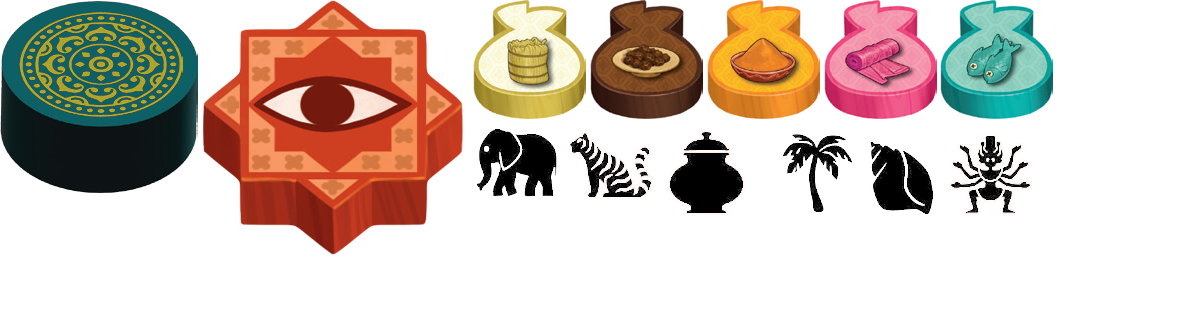
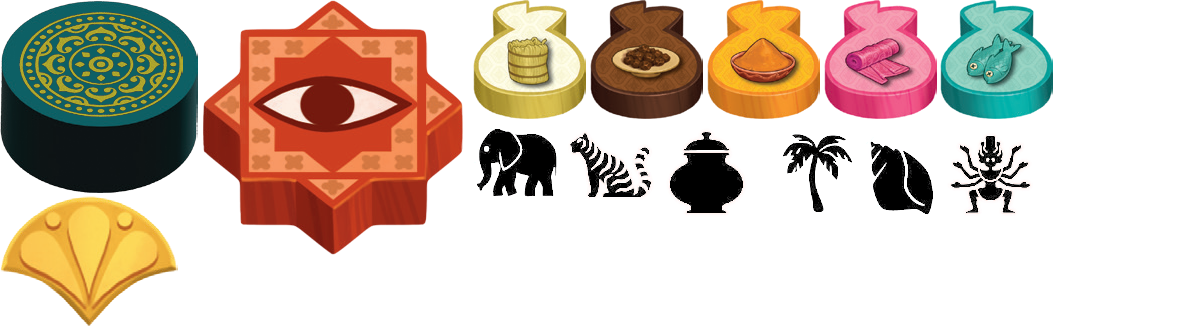
[UI] Side panel : nb actions done

Changed region(s): [[0.0, 0.5758, 0.1542, 1.0]]

diff --git a/modules/js/Game.js b/modules/js/Game.js
@@ -227,6 +227,7 @@ export class Game {
                         ${this.tplResourceCounter(player,'explo_symbol_tiny_6',this.getCardSymbolName(6))}
                     </div>
                     <div class='goa_player_counters_line goa_player_counters_lastline'>
+                        ${this.tplResourceCounter(player,'nbActions',_('Round Actions'))}
                         <div id="goa_first_player_container_${player.id}" class="goa_first_player_container" alt="${_('Nazar Stone (Starting player)')}" title="${_('Nazar Stone (Starting player)')}"></div>
                     </div>
                 </div>
@@ -238,6 +239,7 @@ export class Game {
             this.createCounter(player.id,'ships',player.ships);
             this.createCounter(player.id,'contracts',player.contracts);
             this.createCounter(player.id,'compasses',player.compasses);
+            this.createCounter(player.id,'nbActions',player.nbActions);
             if (currentPlayer && player.id == currentPlayer.id){
                 this.createCounter(player.id,'money',player.money);
                 //counters on hand symbols :
@@ -268,6 +270,7 @@ export class Game {
             this.bga.gameui.addTooltipHtml(`goa_reserve_${player.id}_ships`, _('Number of Ships on ship cards'));
             this.bga.gameui.addTooltipHtml(`goa_reserve_${player.id}_contracts`, _('Number of Contracts on contract cards'));
             this.bga.gameui.addTooltipHtml(`goa_reserve_${player.id}_compasses`, _('Compass cards'));
+            this.bga.gameui.addTooltipHtml(`goa_reserve_${player.id}_nbActions`, _('Round Actions'));
 
             
             this.const.SPICES_ALL.forEach((spice) => {
@@ -1097,6 +1100,7 @@ export class Game {
             this._counters[pId]['ships'].toValue(player.ships);
             this._counters[pId]['contracts'].toValue(player.contracts);
             this._counters[pId]['compasses'].toValue(player.compasses);
+            this._counters[pId]['nbActions'].toValue(player.nbActions);
 
             if (currentPlayer && player.id == currentPlayer.id){
 
@@ -1192,6 +1196,10 @@ export class Game {
         this.customDebug("notif_newRound",notif);
         this.gamedatas.round = notif.n;
         this.setupRoundMarker();
+        
+        Object.values(this.gamedatas.players).forEach(player => {
+            this._counters[player.id]['nbActions'].toValue(0);
+        });
     }
     async notif_resetActionsPhase(notif) {
         this.customDebug("notif_resetActionsPhase",notif);
@@ -1518,6 +1526,12 @@ export class Game {
         
     }
     
+    async notif_playAction(notif) {
+        this.customDebug("notif_playAction : ",notif);
+        let pId = notif.player_id;
+        this._counters[pId]['nbActions'].incValue(1);
+    }
+
     async notif_progress(notif) {
         this.customDebug("notif_progress : move token 1 space down",notif);
         let token = notif.token;
@@ -1525,7 +1539,6 @@ export class Game {
         let destinationDiv = document.getElementById(this.getTokenContainer(token));
         await this.animationManager.slideAndAttach(tokenDiv, destinationDiv);
     }
-
     
     async notif_addPoints (notif) {
         this.customDebug( 'notif_addPoints' , notif);

diff --git a/modules/js/states/PlayerTurn.js b/modules/js/states/PlayerTurn.js
@@ -44,11 +44,15 @@ export class PlayerTurn {
                 break;
             case this.game.const.ROUND_STEP_PLAYER_ACTIONS: 
                 //let titleActive =  _('${you} must select an action (${n} done in this round, min ${x} to pass)').replace('${n}', args.nbActions).replace('${x}', args.minActions);
-                let titleActive =  _('${you} must select an action (${n} done in this round)').replace('${n}', args.nbActions);
-                let titleOthers =  _('${actplayer} must select an action (${n} done in this round)').replace('${n}', args.nbActions);
+                let titleActive =  _('${you} must select an action');
+                let titleOthers =  _('${actplayer} must select an action');
                 if(args.actionPlayed){
                     titleActive =  _('${you} may play a card or tile');
                     titleOthers =  _('${actplayer} may play a card or tile');
+                }
+                if(possibleActions.includes('actPassAction')){
+                    titleActive =  _('${you} must pass or spend 1 ${compass_card} for an action').replace('${compass_card}',this.game.formatIcon('compasses',_('Compass card')));
+                    titleOthers =  _('${actplayer} must pass or spend 1 ${compass_card} for an action').replace('${compass_card}',this.game.formatIcon('compasses',_('Compass card')));
                 }
 
                 this.bga.statusBar.setTitle(isCurrentPlayerActive ? titleActive : titleOthers);
@@ -146,7 +150,7 @@ export class PlayerTurn {
             }
 
             if(possibleActions.includes('actBuildShips')){
-                let actionName = _('Build ships');
+                let actionName = _('Build Ships');
                 let actionHint = this.bga.gameui.format_string(_('Action : ${name}'),{'name': actionName});
                 this.bga.statusBar.addActionButton(actionName, () => this.game.customPerformAction("actBuildShips"), { 'title':actionHint,destination: document.getElementById('customPrimary') }); 
                 //+ CLICK ON BOARD section

diff --git a/modules/js/states/PlayerChoice.js b/modules/js/states/PlayerChoice.js
@@ -260,7 +260,7 @@ export class ClientSelectTileAction {
                             case this.game.const.ACTION_SHIP: 
                                 this.game.addClickHandlerOnProgressMarker(
                                     1,
-                                    this.bga.gameui.format_string(_('Action : ${name}'),{'name':  _('Build ships')}),
+                                    this.bga.gameui.format_string(_('Action : ${name}'),{'name':  _('Build Ships')}),
                                     opponentId,
                                     () => this.game.customPerformAction("actTileChoice", { 
                                                 'tile_id' : tile_id,

diff --git a/goa.css b/goa.css
@@ -794,6 +794,15 @@ Icon extract in sprite with differents layers size (so % is not useful).
   background-size: 606.0606060606% 170.9844559585%;
 }
 
+.goa_icon_nbActions {
+  width: 35.6px;
+  height: 26px;
+  background-image: url("img/icons.png");
+  background-position-x: 0px;
+  background-position-y: -39.2px;
+  background-size: 674.1573033708% 253.8461538462%;
+}
+
 .goa_icon_spices_white, .goa_icon_spices_1 {
   position: relative;
   width: 29px;

diff --git a/modules/css/icons.scss b/modules/css/icons.scss
@@ -10,6 +10,10 @@
     @include goa_icons_sprite(0px,0px,0.25 * 198px,0.25 * 193px,198px,193px);
 }
 
+.goa_icon_nbActions{
+    @include goa_icons_sprite(0px,196px,0.2 * 178px,0.2 * 130px,178px,130px);
+}
+
 $spice_width: 29px;
 $spice_height: 30px;
 .goa_icon_spices_white, .goa_icon_spices_1{

diff --git a/modules/php/DebugTrait.php b/modules/php/DebugTrait.php
@@ -461,9 +461,11 @@ trait DebugTrait
     
     //TEst different notif at a time
     function debug_sendNotif(){
+        $player = Players::getCurrent();
         $players = Players::getAll()->toArray();
         //Notifications::winsAuction($players[0], 12,$players[1]);
-        Notifications::winsAuction($players[0], 15,);
+        //Notifications::winsAuction($players[0], 15,);
+        Tokens::giveFirstPlayerToken($player);
     }
 
     //TEst different utils functions at a time
